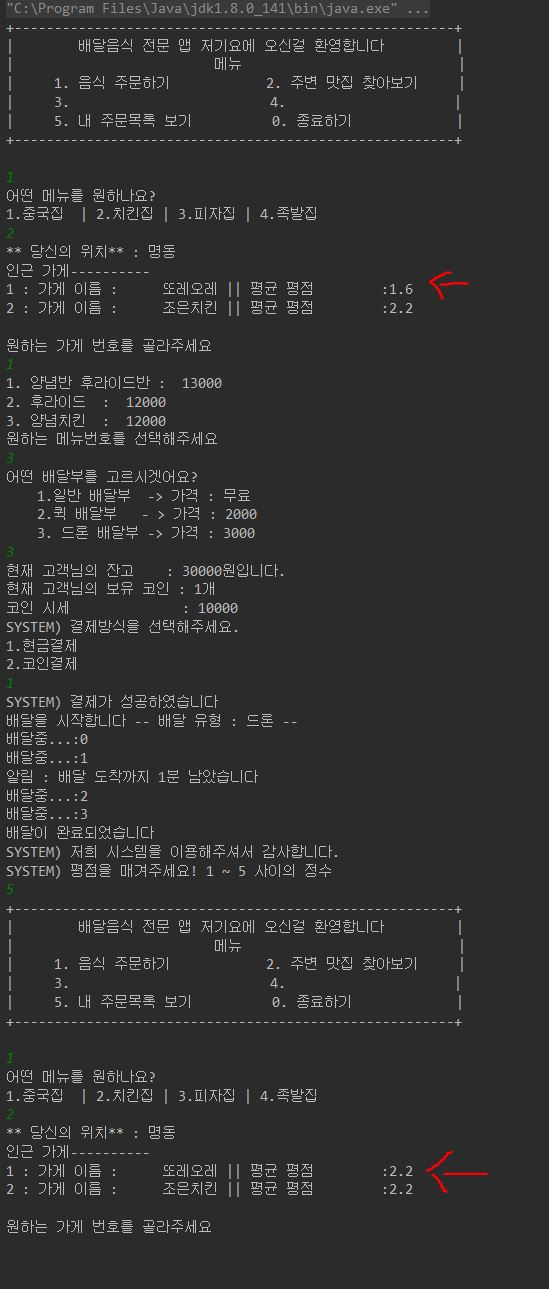
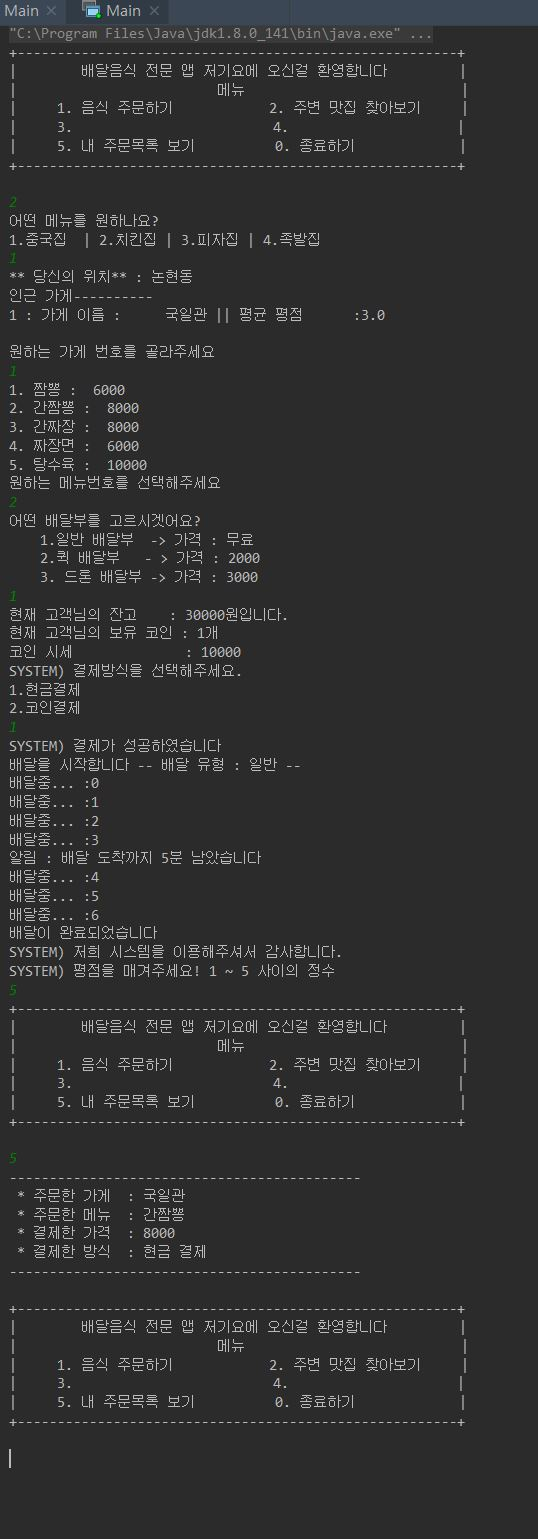
3차 결제 모듈 구현

diff --git a/src/main/java/App.java b/src/main/java/App.java
@@ -53,7 +53,7 @@ public class App
         return SingleTon.instance;
     }
 
-    // ----------------------------------- 멤버 함수 --------------------------------------------------
+    // ----------------------------------- public opeartions --------------------------------------------------
 
     /**
      * 가게들로부터 수수료를 받는 함수
@@ -72,7 +72,8 @@ public class App
     }
 
     /**
-     * 사용자로부터 음식을 주문받는 함수
+     * 1번 메뉴.
+     * 사용자로부터 음식을 주문받는다
      * @param client
      */
     public void orderFood(Client client) throws IOException
@@ -95,7 +96,8 @@ public class App
     }
 
     /**
-     *  맛집 찾기, 사용자 근처에 있는 음식점중 맛집을 찾아준다
+     * 2번 메뉴.
+     * 사용자 근처에 있는 음식점중 맛집을 찾고 주문을 받는다.
      * @param     client      사용자
      *
      */
@@ -103,7 +105,7 @@ public class App
     {
         String storeName = findNearStore(client,3.0);     // 3.0 이상 평점의 주변 음식점 데이터를가져온다.
         Store store = null;
-        if(store == null)return; // 주변에 검색된 가게가 없으면 자동 종료
+        if(storeName == null)return; // 주변에 검색된 가게가 없으면 자동 종료
 
         // storeList를 순회하다 사용자가 선택한 가게 이름을 가진 store객체를 찾으면 store 변수에 대입하고 루프 탈출
         for(int i = 0 ; i < storeList.size() ; i++)
@@ -117,6 +119,7 @@ public class App
         store.makeOrder(client);
     }
 
+    // ----------------------------------- private opeartions --------------------------------------------------
 
     /**
      * 유저 근처에 있는 가게 목록을 찾고, 유저가 선택한 가게 이름을 출력해주는 함수
@@ -149,7 +152,7 @@ public class App
 
         System.out.println("** 당신의 위치** : " + client.getLocation() + "\n인근 가게----------");
 
-        int mapCount = 1;       // map에 1,2,3.. 순서대로 집어넣기 위한 변수
+        int mapCount = 1;                         // map에 1,2,3.. 순서대로 집어넣기 위한 변수
         for(int i = 0; i < storeList.size(); i++) // storeList 배열을 처음부터 끝까지 순회
         {
             if(storeList.get(i).getLocation().equals(client.getLocation())          // 조건 1. 가게의 위치와 사용자의 위치가 같고,

diff --git a/src/main/java/store/Store.java b/src/main/java/store/Store.java
@@ -43,7 +43,7 @@ public class Store
 
         for(int i = 0; i < 5 ; i++)         // 기본적으로 모든 가게는 평점을 5개씩 가지고 있다.
         {
-            int rate =(int)(Math.random()*5);   // 0 ~ 5이하의 난수
+            int rate =(int)(Math.random()*3)+2;   // 2 ~ 5이하의 난수
             rateList.add(new Rate(this,new Client(),rate));     //rateList에 평점을 넣는다. 인자 : (자기 자신의 가게 객체, 새로운 고객, 위의 난수)
         }
     }
